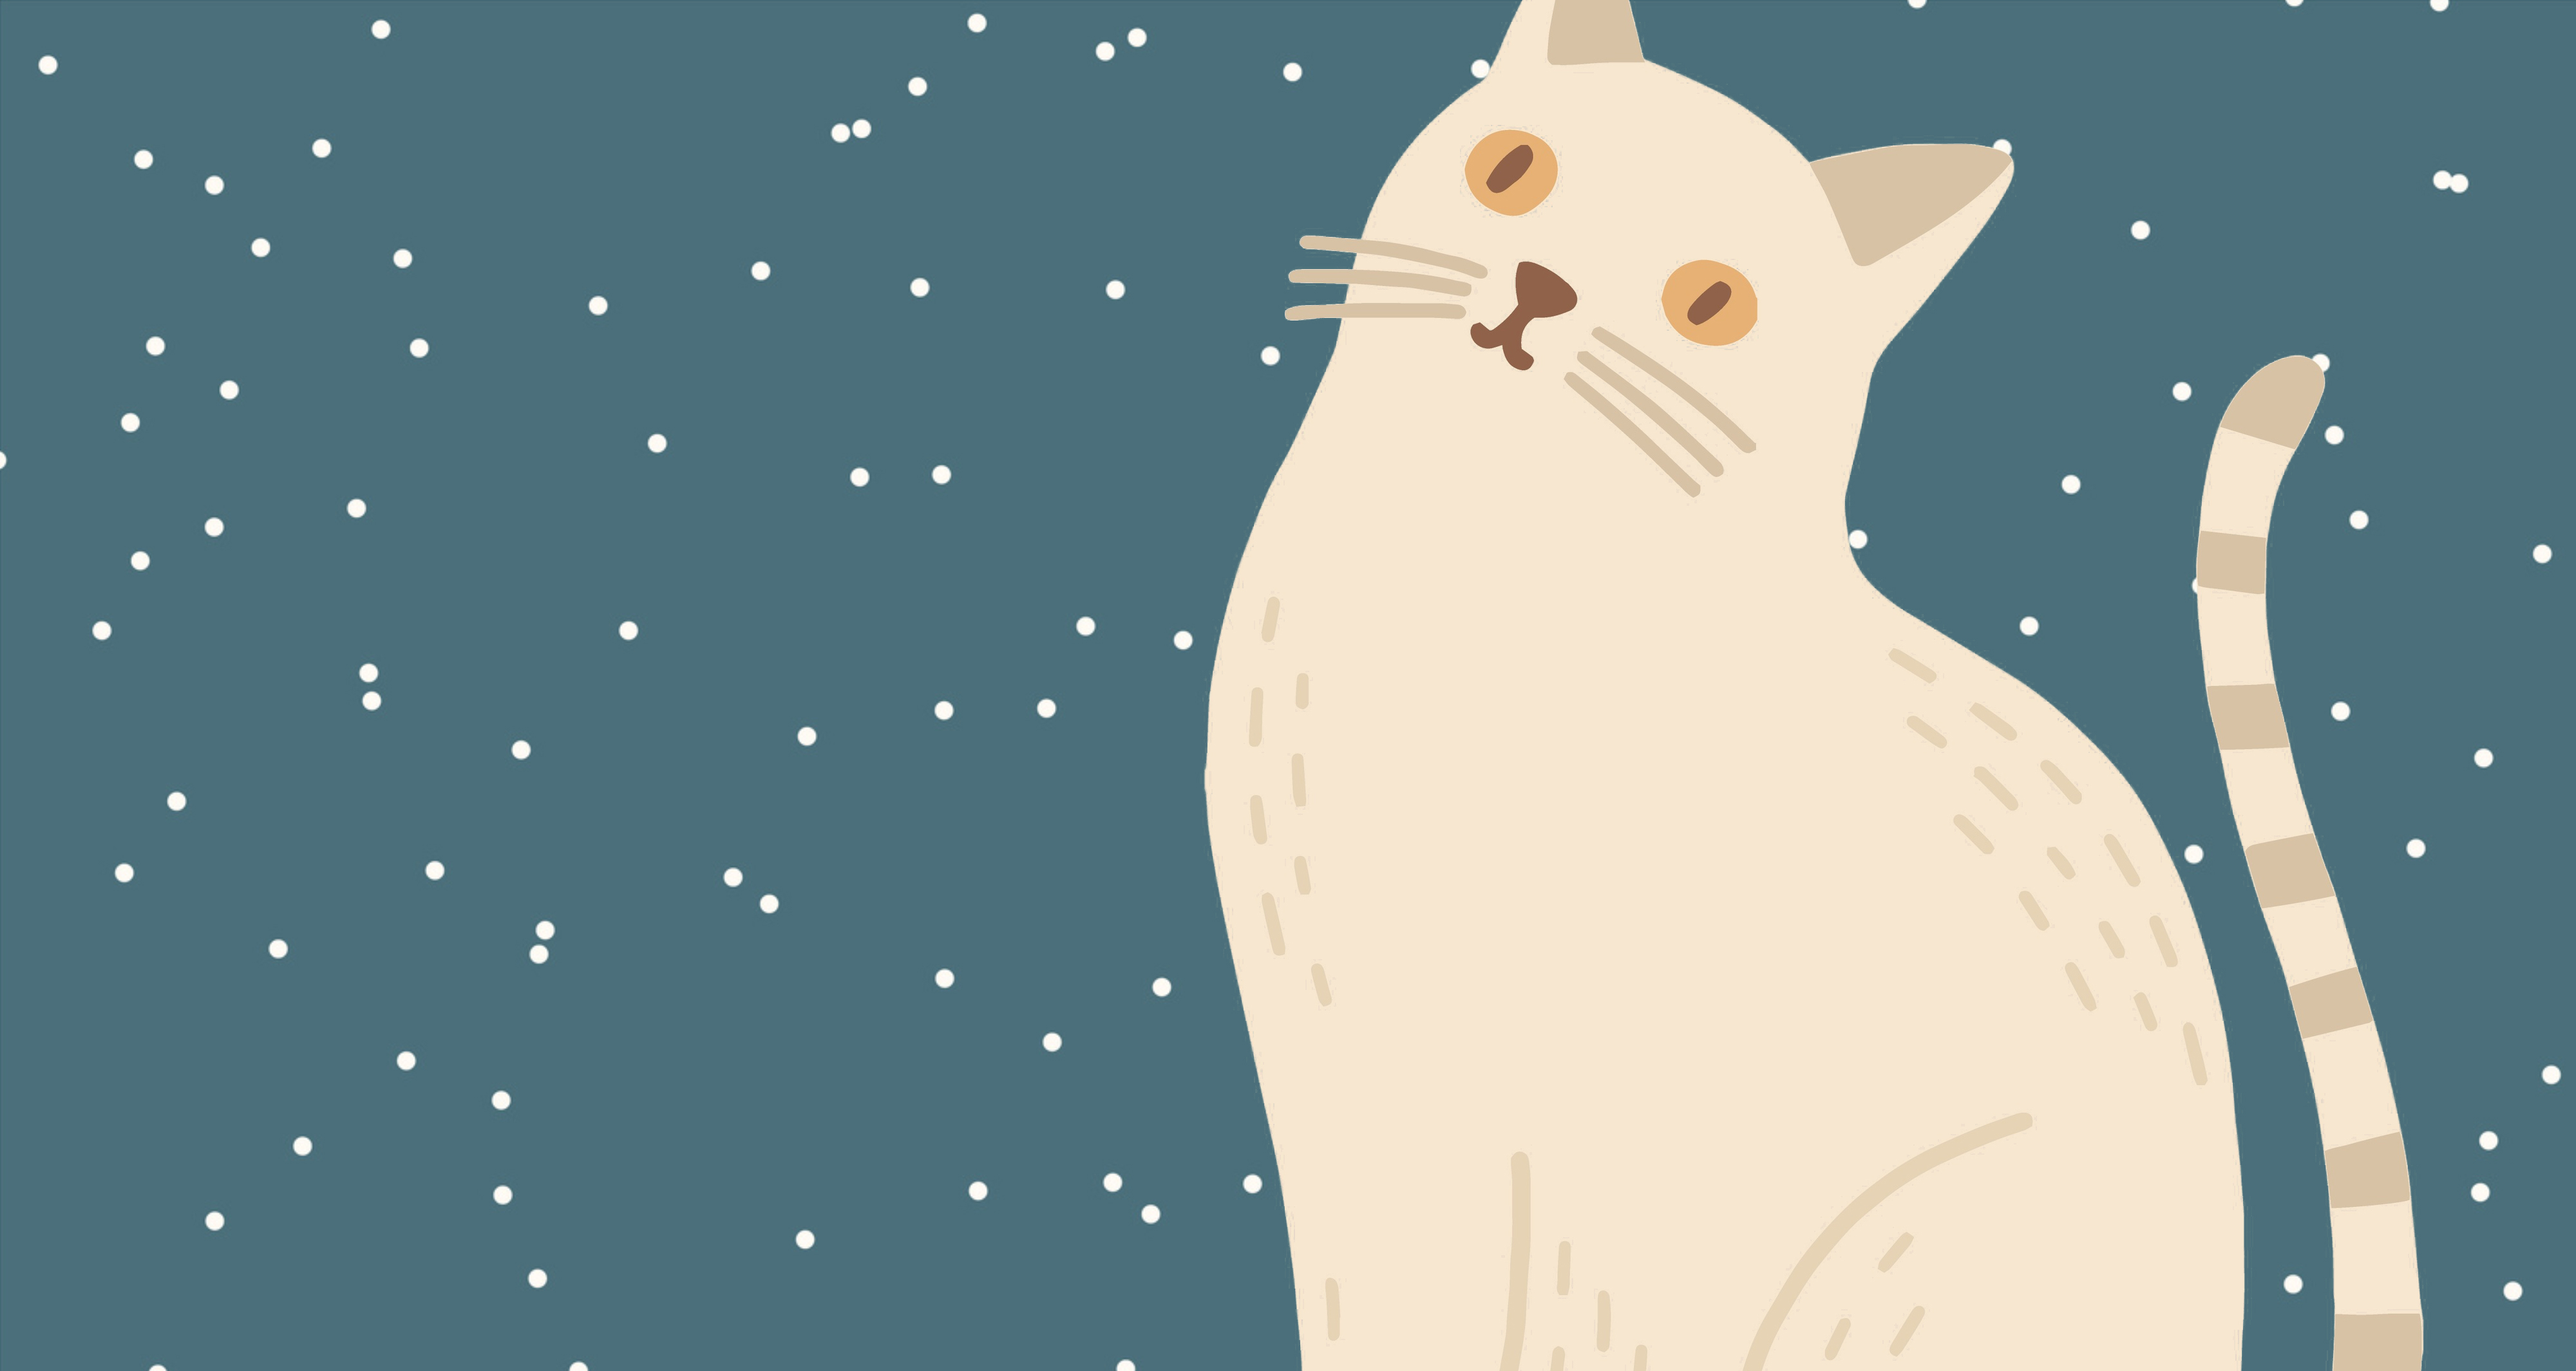
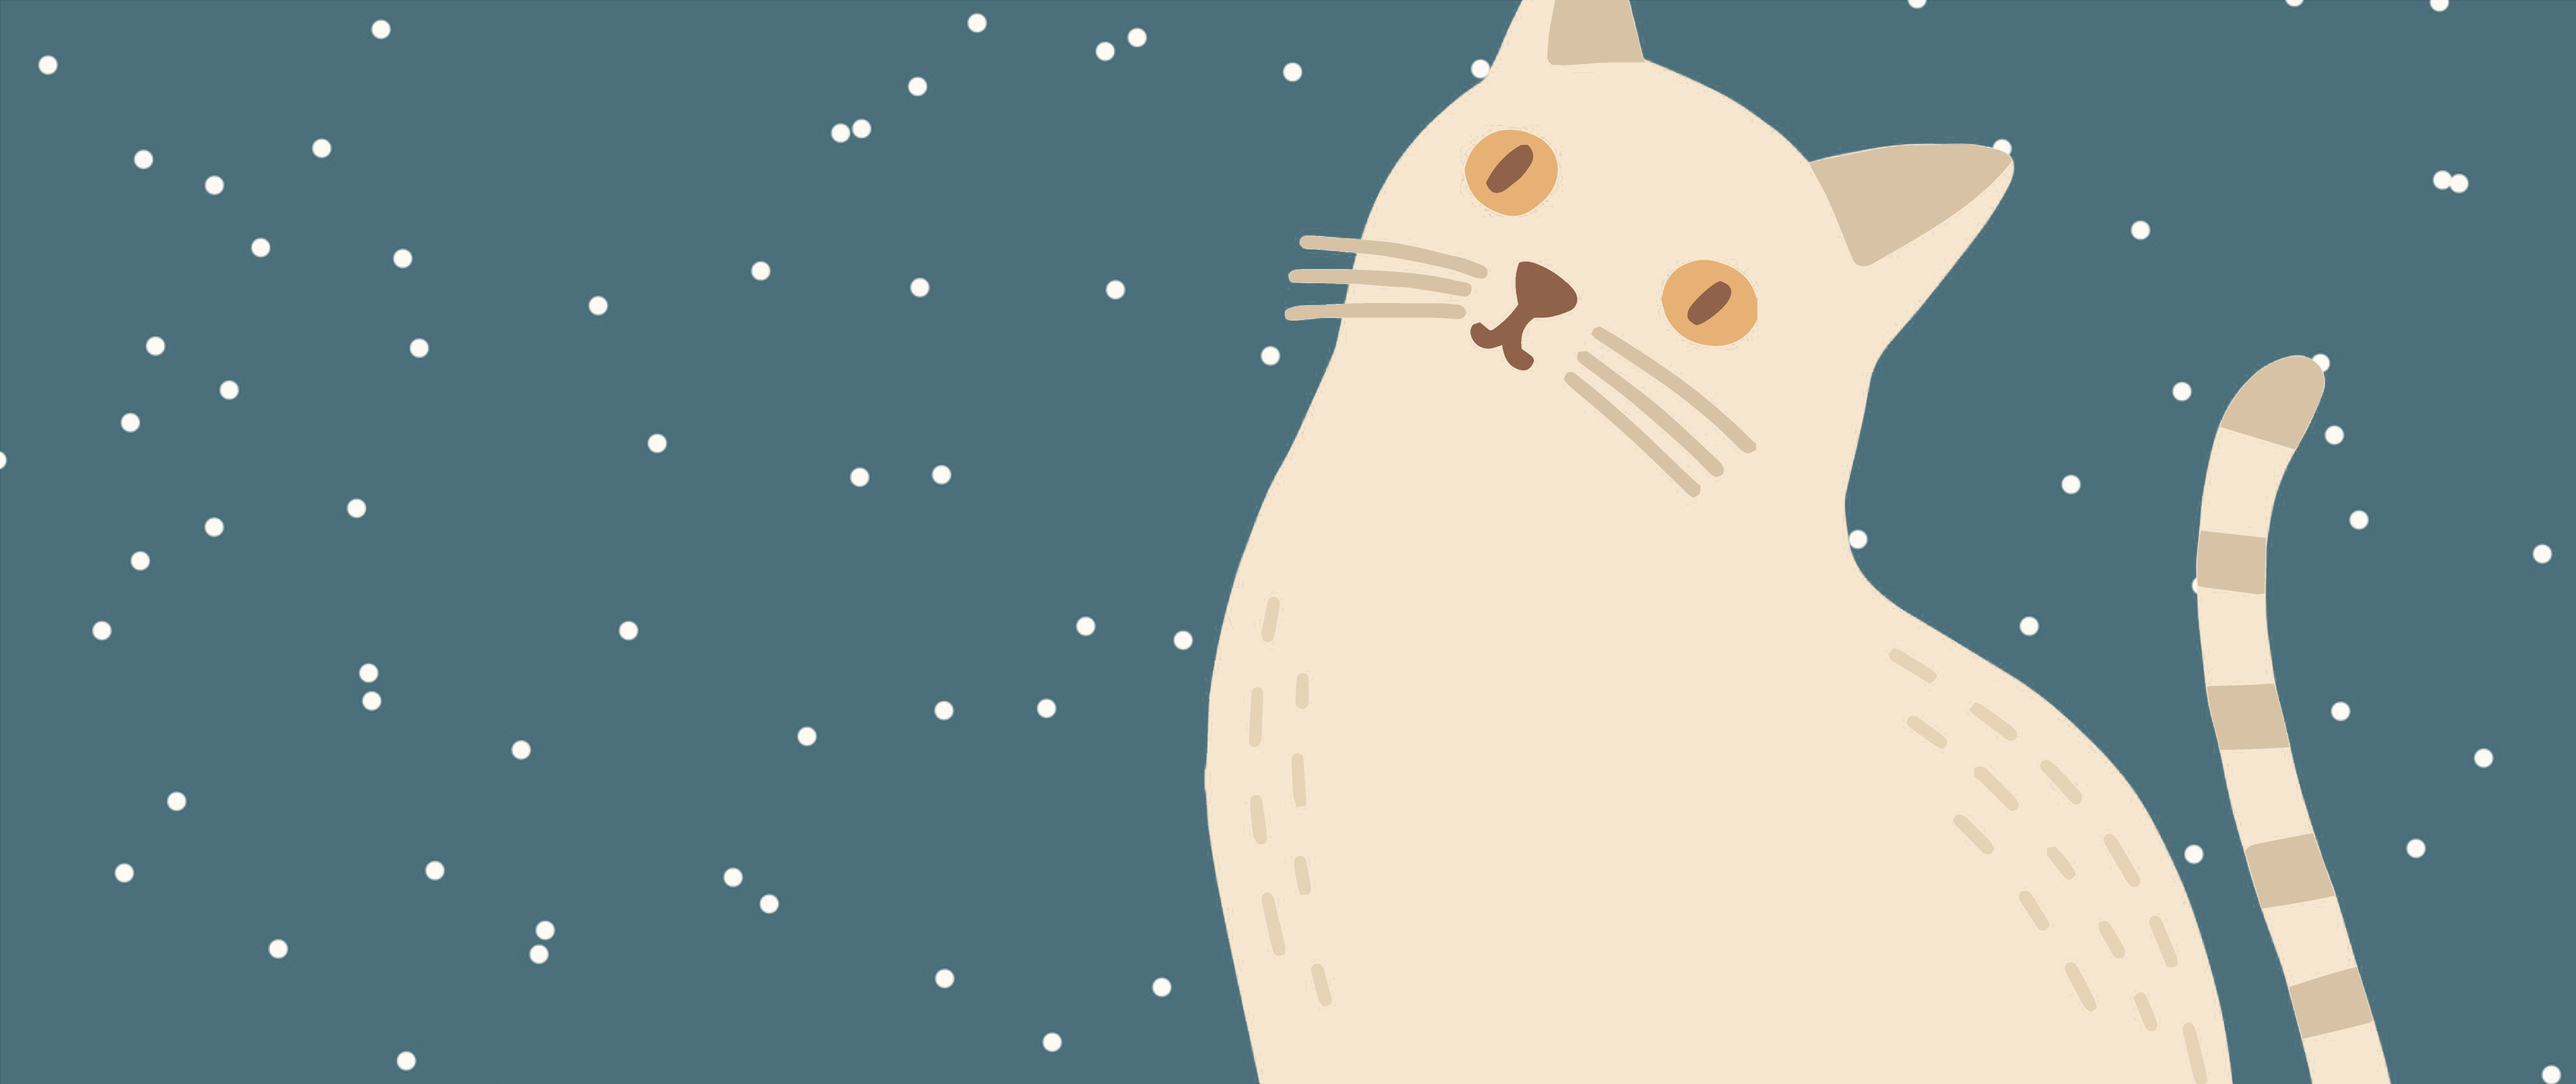
u

diff --git a/index.html b/index.html
@@ -42,9 +42,9 @@
   }
 
   .hero-image {
-    background-image: url(triangle.jpeg);
+    background-image: url(triangle.jpg);
     background-color: #353535;
-    height: 300px;
+    height: 500px;
     background-position: center;
     background-repeat: no-repeat;
     background-size: cover;
